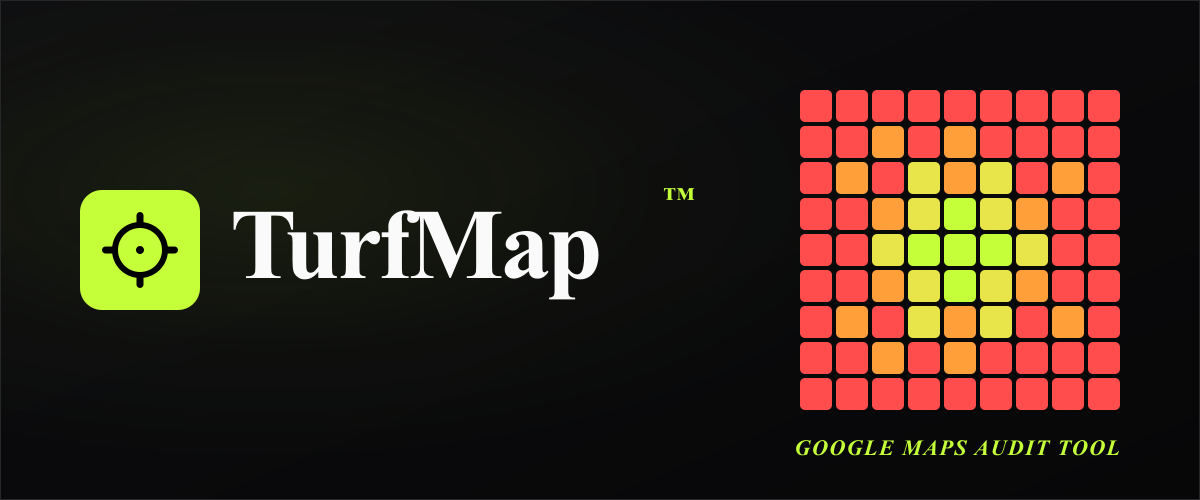
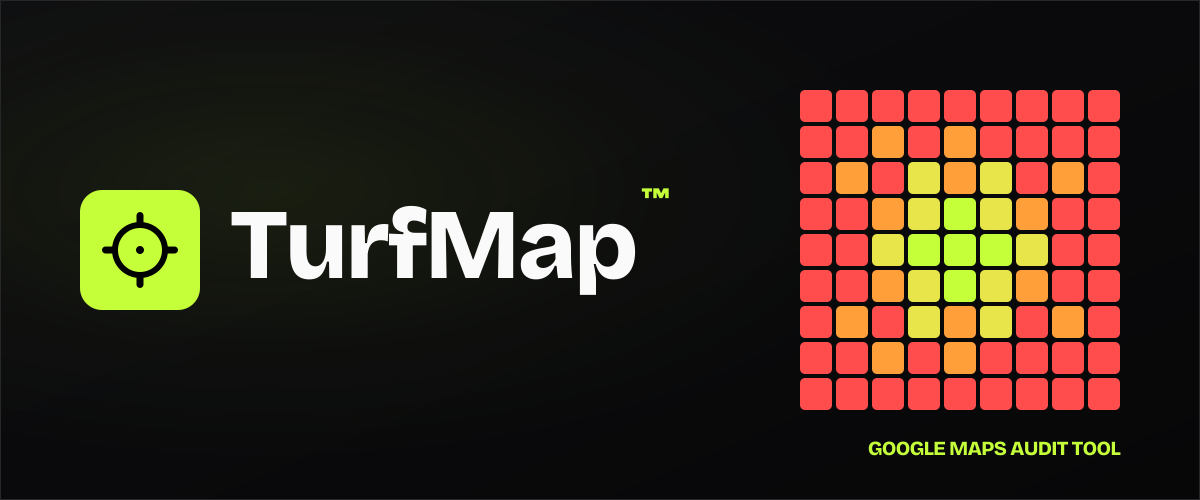
fix(brand): Shorby wordmark — render text as glyph outlines
Sharp's underlying renderer (resvg/libvips) ignores the inline
@font-face data URI I'd embedded, so the wordmark fell back to a
system serif and looked like Times New Roman. Fix: extract glyph
outlines from the live-site Bricolage Grotesque 96pt ExtraBold TTF
via fontTools (Python — opentype.js choked on the substitution
table format the font uses) and emit them as raw SVG <path>
elements. No font matching at render time → the PNG renders the
exact same letterforms turfmap.ai's nav serves, deterministically.

Helper at scripts/_font_to_svg_path.py is a 60-line tool that
reads a TTF + string + size and prints {glyphs_svg, width} JSON.
The main script (scripts/generate-shorby-banner.mjs) shells out to
it for each text element on the banner.

Changed region(s): [[0.185, 0.39, 0.555, 0.6], [0.6475, 0.87, 0.925, 0.93], [0.5242, 0.36, 0.5858, 0.42]]

diff --git a/scripts/_font_to_svg_path.py b/scripts/_font_to_svg_path.py
@@ -1,0 +1,74 @@
+#!/usr/bin/env python3
+"""
+Helper for scripts/generate-shorby-banner.mjs.
+
+Reads a TTF + text string + font size and prints a JSON object with:
+  - d:      the SVG path 'd' attribute representing the glyph outlines
+            of the rendered text (at the requested font size, baseline
+            at y=0, starting at x=0)
+  - width:  rendered advance width of the string at this font size
+
+Run via: python3 _font_to_svg_path.py <ttf-path> <text> <font-size>
+Tracking (letter-spacing) is fixed in CSS-em like opentype.js — pass
+the tracking_em argument to override (default: -0.03 em).
+"""
+
+import json
+import sys
+from fontTools.ttLib import TTFont
+from fontTools.pens.svgPathPen import SVGPathPen
+
+
+def render(font_path: str, text: str, font_size: float, tracking_em: float = -0.03) -> dict:
+    font = TTFont(font_path)
+    units_per_em = font["head"].unitsPerEm
+    scale = font_size / units_per_em
+    tracking_units = tracking_em * units_per_em
+
+    cmap = font.getBestCmap()
+    glyph_set = font.getGlyphSet()
+    hmtx = font["hmtx"]
+
+    # Compose path commands across all glyphs, transformed to the
+    # requested font size with the y-axis flipped (TTF baseline-up,
+    # SVG baseline-down).
+    parts = []
+    pen_x_units = 0
+    for ch in text:
+        code = ord(ch)
+        glyph_name = cmap.get(code)
+        if glyph_name is None:
+            # Skip unmapped chars (or use .notdef if present).
+            glyph_name = ".notdef" if ".notdef" in glyph_set else None
+            if glyph_name is None:
+                continue
+        advance_units, _ = hmtx[glyph_name]
+        glyph = glyph_set[glyph_name]
+        pen = SVGPathPen(glyph_set)
+        glyph.draw(pen)
+        commands = pen.getCommands()
+        # Translate to (pen_x_units, 0) in TTF units, then scale to
+        # SVG and flip Y. We do this by emitting a transform-wrapping
+        # `<g>` per glyph — simpler than re-tokenizing the d string.
+        if commands.strip():
+            parts.append(
+                f'<g transform="matrix({scale} 0 0 {-scale} {pen_x_units * scale} 0)">'
+                f'<path d="{commands}"/></g>'
+            )
+        pen_x_units += advance_units + tracking_units
+
+    total_width_em = pen_x_units * scale
+    return {"glyphs_svg": "".join(parts), "width": total_width_em}
+
+
+def main():
+    if len(sys.argv) < 4:
+        print(json.dumps({"error": "usage: <ttf> <text> <size> [tracking_em]"}))
+        sys.exit(1)
+    ttf, text, size = sys.argv[1], sys.argv[2], float(sys.argv[3])
+    tracking = float(sys.argv[4]) if len(sys.argv) > 4 else -0.03
+    print(json.dumps(render(ttf, text, size, tracking)))
+
+
+if __name__ == "__main__":
+    main()
